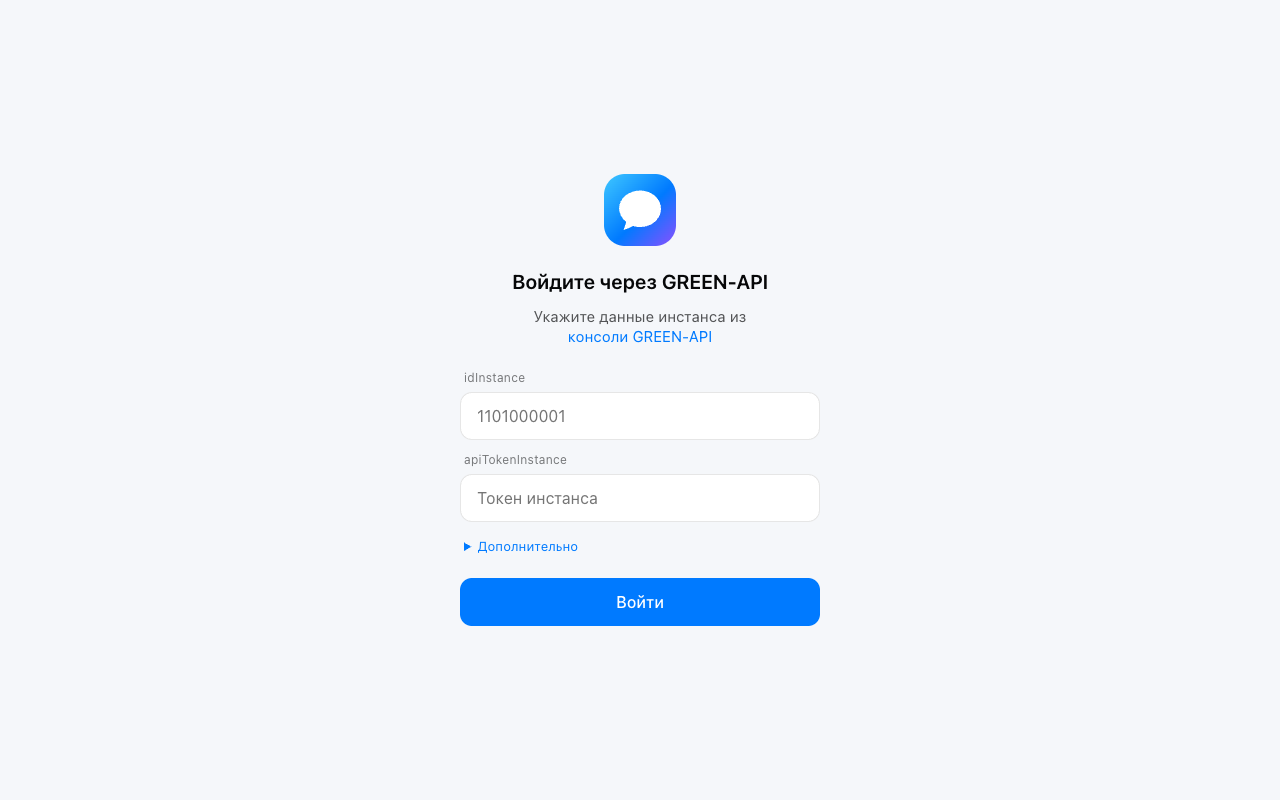
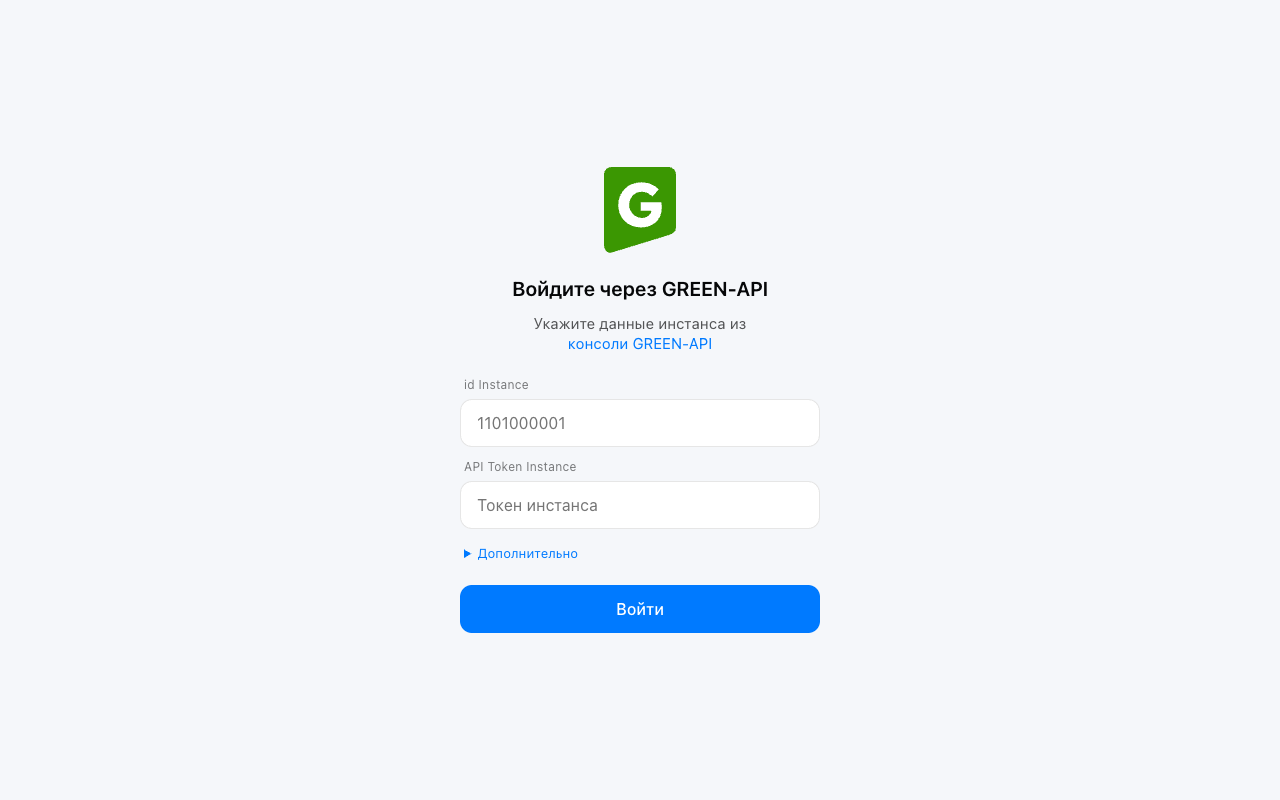
Логотип и иконка вкладки GREEN-API

Changed region(s): [[0.3438, 0.4688, 0.6562, 0.8125], [0.4062, 0.3438, 0.5938, 0.4375], [0.4688, 0.1875, 0.5312, 0.3125]]

diff --git a/src/components/icons.tsx b/src/components/icons.tsx
@@ -18,22 +18,18 @@ const stroke = {
   strokeLinejoin: 'round',
 } as const
 
-/** Логотип приложения: облачко сообщения в градиенте */
+// Знак GREEN-API: зелёная плитка и буква «G» (из логотипа на green-api.com)
+const GREEN_API_TILE =
+  'M59.99 0.024c-15.036,0.314 -29.867,6.468 -40.765,16.969 -11.337,10.764 -18.332,26.013 -19.106,41.713 -0.226,6.87 -0.046,13.752 -0.101,20.625 0,195.762 -0.012,391.519 0,587.281 0.223,15.115 5.556,30.016 14.496,42.094 6.904,9.254 16.408,17.024 27.687,19.881 7.163,1.878 14.822,1.396 21.805,-1.012 162.69,-49.794 325.393,-99.569 488.071,-149.387 13.71,-4.33 27.239,-10.108 38.539,-19.229 8.648,-6.973 15.643,-16.352 18.713,-27.192 1.833,-6.117 2.238,-12.551 2.092,-18.915 -0.012,-150.524 0.012,-301.036 -0.012,-451.56 -0.146,-15.417 -6.251,-30.687 -16.777,-41.844 -10.639,-11.459 -25.72,-18.545 -41.237,-19.329 -6.794,-0.226 -13.597,-0.046 -20.39,-0.104 -157.416,0 -314.834,-0.009 -472.25,0.012 -0.259,0 -0.506,0 -0.765,0z'
+const GREEN_API_G =
+  'M402.825 372.256l-89.412 -0.012 0 -71.543 174.363 0c0.707,3.89 1.238,9.187 1.588,15.901 0.345,6.712 0.616,13.167 0.796,19.345 0.171,6.186 0.259,11.044 0.259,14.572 0,24.034 -4.329,46.018 -12.977,65.975 -8.657,19.976 -20.851,37.192 -36.572,51.688 -15.722,14.471 -34.188,25.698 -55.383,33.648 -21.198,7.952 -44.162,11.919 -68.894,11.919 -29.678,0 -56.438,-4.769 -80.292,-14.304 -23.854,-9.538 -44.433,-22.964 -61.74,-40.283 -17.319,-17.307 -30.562,-37.627 -39.756,-60.948 -9.187,-23.314 -13.776,-48.75 -13.776,-76.312 0,-27.553 4.952,-52.992 14.835,-76.313 9.897,-23.326 23.762,-43.637 41.609,-60.95 17.835,-17.311 39.036,-30.739 63.597,-40.271 24.559,-9.538 51.492,-14.319 80.82,-14.319 20.14,0 39.304,2.653 57.499,7.949 18.197,5.309 34.806,12.551 49.821,21.729 15.011,9.187 27.47,19.615 37.355,31.275l-55.642 58.295c-12.721,-12.011 -26.403,-21.466 -41.069,-28.348 -14.664,-6.895 -31.185,-10.334 -49.547,-10.334 -15.206,0 -29.239,2.732 -42.14,8.208 -12.898,5.477 -24.198,13.249 -33.916,23.321 -9.718,10.065 -17.231,21.908 -22.528,35.508 -5.309,13.605 -7.946,28.36 -7.946,44.25 0,15.901 2.82,30.562 8.474,43.991 5.659,13.425 13.517,25.18 23.582,35.246 10.078,10.065 21.82,17.923 35.246,23.582 13.429,5.656 27.913,8.48 43.463,8.48 10.953,0 21.107,-1.677 30.465,-5.04 9.367,-3.351 17.667,-7.95 24.921,-13.777 7.23,-5.827 12.889,-12.718 16.945,-20.67 3.442,-6.709 5.424,-13.865 5.952,-21.458z'
+
+/** Логотип GREEN-API */
 export function LogoIcon({ size = 40 }: { size?: number }) {
   return (
-    <svg viewBox="0 0 48 48" width={size} height={size} aria-hidden="true">
-      <defs>
-        <linearGradient id="logo-gradient" x1="0" y1="0" x2="1" y2="1">
-          <stop offset="0" stopColor="#3fc8ff" />
-          <stop offset="0.55" stopColor="#007aff" />
-          <stop offset="1" stopColor="#8a4fff" />
-        </linearGradient>
-      </defs>
-      <rect width="48" height="48" rx="14" fill="url(#logo-gradient)" />
-      <path
-        fill="#fff"
-        d="M24 11c7.7 0 14 5.4 14 12.2S31.7 35.4 24 35.4c-1.6 0-3.1-.2-4.5-.7L13 37.5l1.9-5.6A11.6 11.6 0 0 1 10 23.2C10 16.4 16.3 11 24 11z"
-      />
+    <svg viewBox="0 0 612 730" width={size} height={(size * 730) / 612} aria-hidden="true">
+      <path fill="#3b9702" d={GREEN_API_TILE} />
+      <path fill="#fff" d={GREEN_API_G} />
     </svg>
   )
 }

diff --git a/src/components/LoginForm.tsx b/src/components/LoginForm.tsx
@@ -67,7 +67,7 @@ export function LoginForm({ onLogin }: LoginFormProps) {
         </p>
 
         <label className="login__field">
-          <span className="login__label">idInstance</span>
+          <span className="login__label">id Instance</span>
           <input
             className="login__input"
             value={idInstance}
@@ -77,7 +77,7 @@ export function LoginForm({ onLogin }: LoginFormProps) {
           />
         </label>
         <label className="login__field">
-          <span className="login__label">apiTokenInstance</span>
+          <span className="login__label">API Token Instance</span>
           <input
             className="login__input"
             type="password"

diff --git a/README.md b/README.md
@@ -96,7 +96,7 @@ src/
 
 CSS организован по методологии BEM (`block__element--modifier`), стили — в `src/index.css`.
 Цвета, скругления, размеры панелей и шрифтовая шкала вынесены в CSS-переменные и соответствуют
-светлой теме web.max.ru. Логотип и фоновый узор — собственные, бренд MAX не используется.
+светлой теме web.max.ru. Логотип — знак GREEN-API, фоновый узор нарисован заново; элементы бренда MAX не используются.
 
 Стек: React 19, TypeScript, Vite. Внешних зависимостей, кроме React, нет.
 Учётные данные и история чатов хранятся только в `sessionStorage` браузера: они сохраняются при
